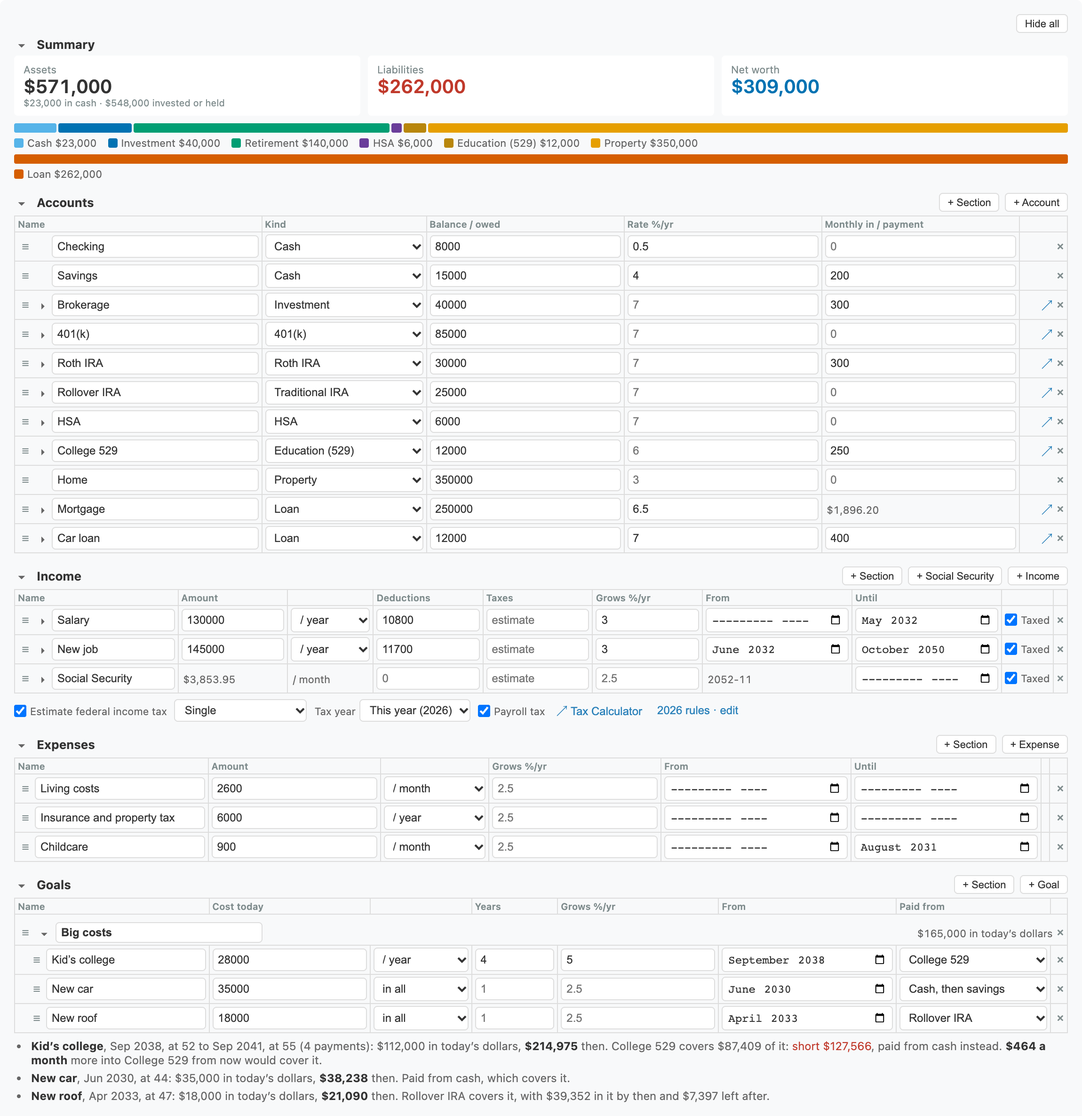
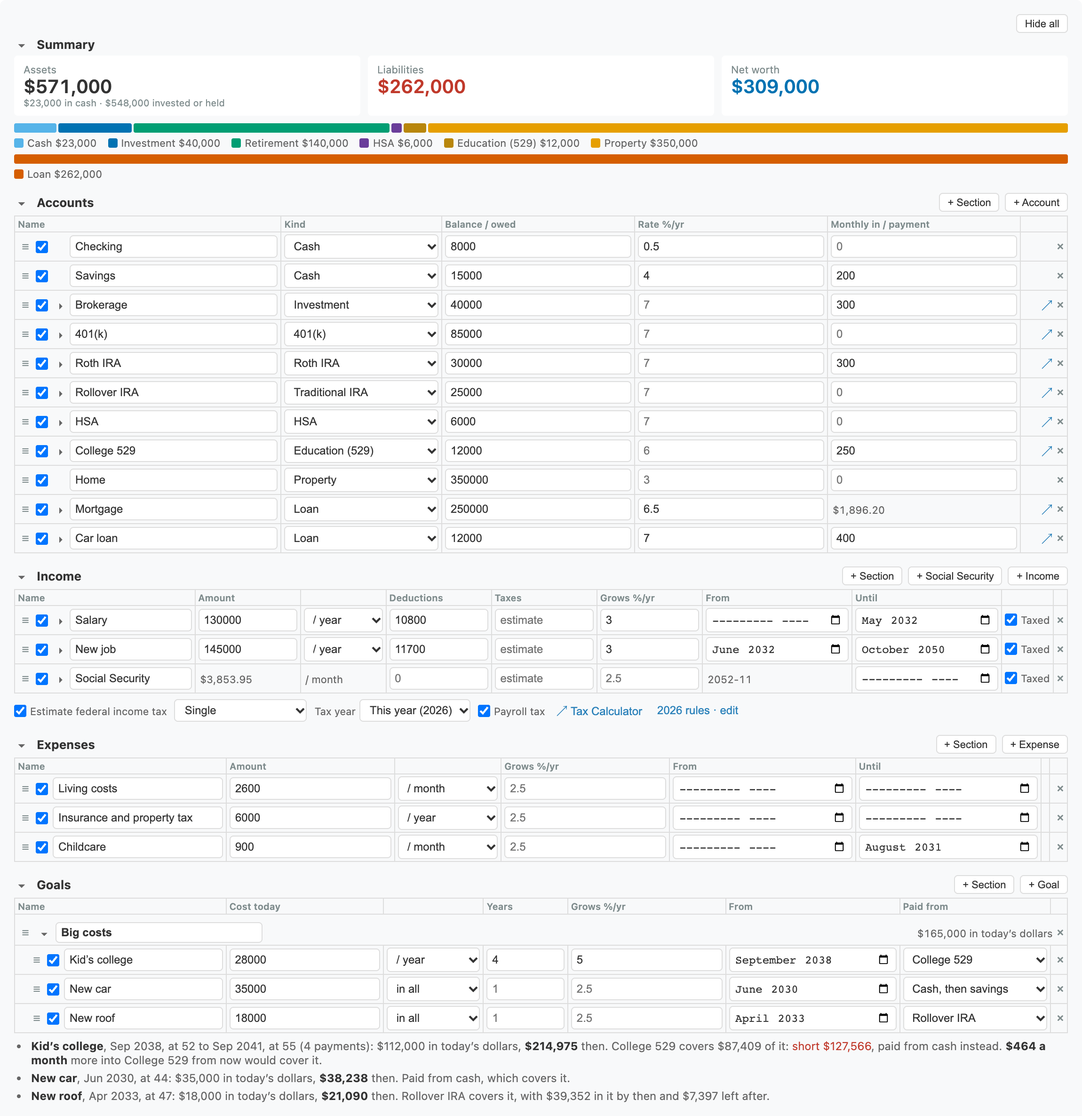
Finance Planning: turn any line off
Every account, income, expense and goal has a tick. Unticked, the line stays in its table,
dimmed and still editable, and the plan comes to what it would with the line deleted.
What points at an account that is off keeps its setting: a goal is paid from cash, what is
left over goes to the first cash account, the withdrawal order keeps its place, and pay
into it stays in take-home. Sections count what is off, and the summary and the on-device
model name it.

diff --git a/plugins/toolboxes/finance-tools.js b/plugins/toolboxes/finance-tools.js
@@ -119,6 +119,9 @@
 .fp-grip { flex: 0 0 16px; width: 16px; border: none; background: none; padding: 0; cursor: grab; color: var(--text-muted); font-size: 11px; }
 .fp-grip:focus-visible { outline: 2px solid #3498db; border-radius: 2px; }
 tr.fp-movable.fp-dragging { opacity: 0.4; }
+.calc-widget.fp-widget input.fp-on { flex: 0 0 13px; width: 13px; height: 13px; margin: 0 3px 0 1px; padding: 0; cursor: pointer; }
+tr.fp-line-off td { opacity: 0.55; }
+tr.fp-line-off input[data-f="name"] { text-decoration: line-through; }
 tr.fp-under-folded { display: none; }
 tr.fp-sec-row td { padding-top: 8px; border-bottom: 1px solid var(--border-color); }
 .fp-sec-head { display: flex; align-items: center; gap: 4px; }
@@ -1570,8 +1573,8 @@ function fpGet(toolId) {
     if (saved.advice) plan.advice = Object.assign(plan.advice, saved.advice);
     if (Array.isArray(saved.drawOrder)) plan.drawOrder = saved.drawOrder.filter(x => x && typeof x.id === 'string').map(x => ({ id: x.id }));
     // Every account that can be drawn from, in the order given and then the usual one —
-    // so moving one is moving it in the whole list.
-    plan.drawOrder = fpDrawOrder(plan).map(a => ({ id: a.id }));
+    // so moving one is moving it in the whole list. One turned off keeps its place.
+    plan.drawOrder = fpDrawOrder(plan, true).map(a => ({ id: a.id }));
     if (saved.assume) {
         const r = Object.assign({}, plan.assume.returns, saved.assume.returns || {});
         plan.assume = Object.assign(plan.assume, saved.assume, { returns: r });
@@ -1716,8 +1719,13 @@ function fpBirthYear(plan) {
 
 /** The household's birth month, { y, m } (m from 0) — Retirement's, or the first Social
  *  Security line's — or null. Every age the plan shows is counted from it. */
+function fpBirthLine(plan) {
+    const has = (l) => l.type === 'ss' && l.birth;
+    return fpEntries((plan && plan.incomes) || []).find(has) || fpAllEntries((plan && plan.incomes) || []).find(has);
+}
+
 function fpBirthOf(plan) {
-    const ss = fpEntries((plan && plan.incomes) || []).find(l => l.type === 'ss' && l.birth);
+    const ss = fpBirthLine(plan);
     const m = /^(\d{4})-(\d{2})$/.exec(((plan && plan.retire) || {}).birth || (ss ? ss.birth : '') || '');
     return m ? { y: +m[1], m: +m[2] - 1 } : null;
 }
@@ -1937,7 +1945,7 @@ function fpSSEstimate(plan, line, stopDate) {
     const payNow = (running.length ? running : pay).reduce((s, l) => s + fpMonthly(l), 0) * 12;
     const past = pastTyped === null ? payNow : pastTyped;
     const from = Math.round(fpNum(line.workFrom, 22));
-    const r = plan.retire && plan.retire.on && fpBirthOf(plan) ? fpRetireInfo(Object.assign({}, plan, { incomes: incomes, accounts: fpEntries(plan.accounts || []), expenses: [] })) : null;
+    const r = plan.retire && plan.retire.on && fpBirthOf(plan) ? fpRetireInfo(Object.assign({}, plan, { incomes: fpAllEntries(plan.incomes), accounts: fpEntries(plan.accounts || []), expenses: [] })) : null;
     const retDate = r && !r.missing ? r.date : null;
     const years = [];
     for (let Y = by + from; Y <= by + 70; Y++) {
@@ -2006,12 +2014,32 @@ function fpAgeText(months) {
 
 function fpIsSection(x) { return !!x && x.type === 'section'; }
 
-function fpEntries(list) { return (list || []).filter(x => x && !fpIsSection(x)); }
+function fpEntries(list) { return (list || []).filter(x => x && !fpIsSection(x) && !x.off); }
+/** The same with the lines turned off: what the tables show, not what the plan counts. */
+function fpAllEntries(list) { return (list || []).filter(x => x && !fpIsSection(x)); }
 
 /** The plan with only its entries, for the sums. */
 function fpCalc(plan) {
     if (!plan || plan._calc) return plan;
-    return Object.assign({}, plan, { accounts: fpEntries(plan.accounts), incomes: fpEntries(plan.incomes), expenses: fpEntries(plan.expenses), goals: fpEntries(plan.goals || []), _calc: true });
+    // A Social Security line turned off still says when you were born.
+    const ss = fpBirthLine(plan);
+    const retire = ss && ss.off && plan.retire && !plan.retire.birth ? Object.assign({}, plan.retire, { birth: ss.birth }) : plan.retire;
+    return Object.assign({}, plan, { accounts: fpEntries(plan.accounts), incomes: fpEntries(plan.incomes).map(l => fpLiveLine(plan, l)), expenses: fpEntries(plan.expenses), goals: fpEntries(plan.goals || []), retire: retire, _calc: true });
+}
+
+/** A pay line as it counts: what it sends to an account turned off stays in take-home, so
+ *  it comes off the deductions too. The line as saved keeps it, for the account coming back. */
+function fpLiveLine(plan, line) {
+    const off = fpAllEntries(plan.accounts).filter(a => a.off).map(a => a.id);
+    const rows = line.type === 'ss' ? [] : fpIntoRows(line);
+    const gone = rows.filter(r => off.includes(r.account));
+    if (!gone.length) return line;
+    return Object.assign({}, line, { deductions: Math.max(0, fpNum(line.deductions, 0) - gone.reduce((s, r) => s + Math.max(0, fpNum(r.amount, 0)), 0)), into: rows.filter(r => !gone.includes(r)) });
+}
+
+/** The lines turned off, by name, for what is read away from the tables. */
+function fpOffNames(plan) {
+    return ['accounts', 'incomes', 'expenses', 'goals'].reduce((out, k) => out.concat(fpAllEntries(plan[k]).filter(x => x.off).map(x => x.name || 'Unnamed')), []);
 }
 
 /** Each section of a list with its entries, in order; the unsectioned first, under null. */
@@ -2028,6 +2056,7 @@ function fpSectionsOf(list) {
  *  what goes in and is paid a month. Income and expenses: a month and a year, of the
  *  lines running now. */
 function fpSectionTotal(plan, list, entries) {
+    entries = entries.filter(x => !x.off).map(x => list === 'incomes' ? fpLiveLine(plan, x) : x);
     if (list === 'accounts') {
         let held = 0, owed = 0, inn = 0, paid = 0;
         const fromPay = fpPayrollNow(plan);
@@ -2258,7 +2287,7 @@ function fpLastJob(plan) {
 function fpRetireInfo(plan) {
     const r = plan.retire || {};
     if (!r.on) return null;
-    const ss = fpEntries(plan.incomes).find(l => l.type === 'ss' && l.birth);
+    const ss = fpBirthLine(plan);
     const birth = r.birth || (ss ? ss.birth : '');
     const m = /^(\d{4})-(\d{2})$/.exec(birth || '');
     if (!m) return { missing: 'birth' };
@@ -2364,9 +2393,9 @@ function fpGoalSaving(plan) {
 /** The accounts drawn from, in order: as the person put them, then any not placed, cash
  *  first, then investments, then pre-tax, then Roth. Property is not drawn from, and nor
  *  is a 529: it is spent only on the goals paid from it. */
-function fpDrawOrder(plan) {
+function fpDrawOrder(plan, withOff) {
     const rank = (a) => a.kind === 'cash' ? 0 : a.kind === 'investment' ? 1 : a.kind === 'other' ? 2 : a.kind === 'hsa' ? 5 : fpIsPretax(a) ? 3 : 4;
-    const drawable = fpEntries(plan.accounts).filter(a => (FP_KINDS[a.kind] || FP_KINDS.other).side === 'asset' && a.kind !== 'property' && a.kind !== 'education');
+    const drawable = (withOff ? fpAllEntries : fpEntries)(plan.accounts).filter(a => (FP_KINDS[a.kind] || FP_KINDS.other).side === 'asset' && a.kind !== 'property' && a.kind !== 'education');
     const placed = (plan.drawOrder || []).map(x => drawable.find(a => a.id === x.id)).filter(Boolean);
     const rest = drawable.filter(a => !placed.includes(a)).sort((a, b) => rank(a) - rank(b));
     return placed.concat(rest);
@@ -3226,7 +3255,7 @@ function fpResetDrawOrder(btn) {
     const widget = fpWidget(btn), toolId = fpToolId(btn);
     const plan = fpGet(toolId);
     plan.drawOrder = [];
-    plan.drawOrder = fpDrawOrder(plan).map(a => ({ id: a.id }));
+    plan.drawOrder = fpDrawOrder(plan, true).map(a => ({ id: a.id }));
     fpSet(toolId, plan);
     fpRender(widget);
 }
@@ -3304,9 +3333,9 @@ function fpRender(widget) {
         const liability = kind.side === 'liability';
         const detailed = kind.tool === 'loan-calculator' || kind.tool === 'dynamic-investment-calculator';
         const open = detailed && widget._open.has(a.id);
-        const main = '<tr data-id="' + attr(a.id) + '" data-list="accounts" class="fp-acc fp-movable' + (open ? ' fp-open' : '') + (under[a.id] ? ' fp-under-folded' : '') + '"' +
+        const main = '<tr data-id="' + attr(a.id) + '" data-list="accounts" class="fp-acc fp-movable' + (a.off ? ' fp-line-off' : '') + (open ? ' fp-open' : '') + (under[a.id] ? ' fp-under-folded' : '') + '"' +
                 ' ondragover="fpDragOver(event, this)" ondragleave="fpDragLeave(this)" ondrop="fpDrop(event, this)">' +
-            '<td><div class="fp-name-cell">' + fpGrip(a.name || kind.label) + (detailed ? '<button type="button" class="fp-more" onclick="fpToggleDetails(this)" aria-expanded="' + open + '" title="' +
+            '<td><div class="fp-name-cell">' + fpGrip(a.name || kind.label) + fpOnBox(a, kind.label) + (detailed ? '<button type="button" class="fp-more" onclick="fpToggleDetails(this)" aria-expanded="' + open + '" title="' +
                 (open ? 'Hide' : 'Show') + ' everything the ' + escapeHtml((PluginRegistry.getTool(kind.tool) || {}).name || 'calculator') + ' takes">' + (open ? '▾' : '▸') + '</button>' : '<span class="fp-more-gap"></span>') +
                 '<input class="fp-in fp-name" data-f="name" value="' + attr(a.name) + '" placeholder="Name" aria-label="Account name"></div></td>' +
             '<td><select class="fp-in" data-f="kind" aria-label="Kind">' + kindOptions(a) + '</select></td>' +
@@ -3318,8 +3347,8 @@ function fpRender(widget) {
         return main + (open && !under[a.id] ? fpDetailsRow(plan, a) : '');
     }).join('');
     const flowRows = (list, isIncome) => plan[list].map(l => fpIsSection(l) ? secRow(l, list, isIncome ? 10 : 8) :
-        '<tr data-id="' + attr(l.id) + '" data-list="' + list + '" class="fp-movable' + (under[l.id] ? ' fp-under-folded' : '') + '" ondragover="fpDragOver(event, this)" ondragleave="fpDragLeave(this)" ondrop="fpDrop(event, this)">' +
-            '<td><div class="fp-name-cell">' + fpGrip(l.name || (isIncome ? 'income' : 'expense')) +
+        '<tr data-id="' + attr(l.id) + '" data-list="' + list + '" class="fp-movable' + (l.off ? ' fp-line-off' : '') + (under[l.id] ? ' fp-under-folded' : '') + '" ondragover="fpDragOver(event, this)" ondragleave="fpDragLeave(this)" ondrop="fpDrop(event, this)">' +
+            '<td><div class="fp-name-cell">' + fpGrip(l.name || (isIncome ? 'income' : 'expense')) + fpOnBox(l, isIncome ? 'income' : 'expense') +
                 (isIncome ? '<button type="button" class="fp-more" onclick="fpToggleDetails(this)" aria-expanded="' + widget._open.has(l.id) + '" title="' +
                     (widget._open.has(l.id) ? 'Hide' : 'Show') + (l.type === 'ss' ? ' the benefit and when it is claimed' : ' what goes from it into an account') + '">' + (widget._open.has(l.id) ? '▾' : '▸') + '</button>' : '') +
                 '<input class="fp-in" data-f="name" value="' + attr(l.name) + '" placeholder="Name" aria-label="Name"></div></td>' +
@@ -3339,17 +3368,17 @@ function fpRender(widget) {
             (isIncome ? '<td><label class="fp-check" title="Counted in the federal estimate, unless its taxes are typed"><input class="fp-in" type="checkbox" data-f="taxed"' + (l.taxed !== false ? ' checked' : '') + '> Taxed</label></td>' : '<td></td>') +
             '<td class="fp-acts"><button type="button" class="fp-x" onclick="fpRemove(this)" title="Remove">×</button></td></tr>' +
         (isIncome && widget._open.has(l.id) && !under[l.id] ? fpIncomeDetailsRow(plan, l) : '')).join('');
-    const payFrom = fpEntries(plan.accounts).filter(fpCanPayGoal);
+    const payFrom = fpAllEntries(plan.accounts).filter(fpCanPayGoal);
     const goalRows = plan.goals.map(g => fpIsSection(g) ? secRow(g, 'goals', 8) :
-        '<tr data-id="' + attr(g.id) + '" data-list="goals" class="fp-movable fp-goal' + (under[g.id] ? ' fp-under-folded' : '') + '" ondragover="fpDragOver(event, this)" ondragleave="fpDragLeave(this)" ondrop="fpDrop(event, this)">' +
-            '<td><div class="fp-name-cell">' + fpGrip(g.name || 'goal') + '<input class="fp-in" data-f="name" value="' + attr(g.name) + '" placeholder="Name" aria-label="Name"></div></td>' +
+        '<tr data-id="' + attr(g.id) + '" data-list="goals" class="fp-movable fp-goal' + (g.off ? ' fp-line-off' : '') + (under[g.id] ? ' fp-under-folded' : '') + '" ondragover="fpDragOver(event, this)" ondragleave="fpDragLeave(this)" ondrop="fpDrop(event, this)">' +
+            '<td><div class="fp-name-cell">' + fpGrip(g.name || 'goal') + fpOnBox(g, 'goal') + '<input class="fp-in" data-f="name" value="' + attr(g.name) + '" placeholder="Name" aria-label="Name"></div></td>' +
             '<td><input class="fp-in fp-num" type="number" data-f="cost" value="' + attr(g.cost) + '" placeholder="0" aria-label="Cost, in today’s dollars" title="In today’s dollars: it rises by its growth to when it is paid"></td>' +
             '<td><select class="fp-in" data-f="every" aria-label="A year or in all"><option value="total"' + (g.every !== 'year' ? ' selected' : '') + '>in all</option><option value="year"' + (g.every === 'year' ? ' selected' : '') + '>/ year</option></select></td>' +
             '<td><input class="fp-in fp-num fp-small" type="number" min="1" max="20" step="1" data-f="years" value="' + attr(g.years) + '" placeholder="1" aria-label="Over how many years" title="Paid at the start of each year: 4 for college, 1 for a one-off"></td>' +
             '<td><input class="fp-in fp-num" type="number" step="0.1" data-f="growth" value="' + attr(g.growth) + '" placeholder="' + fpNum(plan.assume.inflation, 0) + '" aria-label="Its cost grows per cent a year" title="Its price rises this much a year; empty means inflation. College costs have tended to rise faster, about 5% a year."></td>' +
             '<td><input class="fp-in fp-date" type="month" data-f="from" value="' + attr(g.from) + '" aria-label="When the first payment falls" title="When the first payment falls"></td>' +
             '<td><select class="fp-in" data-f="account" aria-label="Paid from"><option value="">Cash, then savings</option>' +
-                payFrom.map(a => '<option value="' + attr(a.id) + '"' + (g.account === a.id ? ' selected' : '') + '>' + escapeHtml(a.name || fpKindLabel(a)) + '</option>').join('') + '</select></td>' +
+                payFrom.map(a => '<option value="' + attr(a.id) + '"' + (g.account === a.id ? ' selected' : '') + '>' + escapeHtml(a.name || fpKindLabel(a)) + (a.off ? ' (off)' : '') + '</option>').join('') + '</select></td>' +
             '<td class="fp-acts"><button type="button" class="fp-x" onclick="fpRemove(this)" title="Remove">×</button></td></tr>').join('');
     const goalHead = '<thead><tr><th>Name</th><th>Cost today</th><th></th><th>Years</th><th>Grows %/yr</th><th>From</th><th>Paid from</th><th></th></tr></thead>';
     const flowHead = '<thead><tr><th>Name</th><th>Amount</th><th></th><th>Grows %/yr</th><th>From</th><th>Until</th><th></th><th></th></tr></thead>';
@@ -3547,7 +3576,8 @@ function fpRefreshSections(widget, plan) {
     ['accounts', 'incomes', 'expenses', 'goals'].forEach(list => fpSectionsOf(plan[list]).forEach(g => {
         if (!g.section) return;
         const el = widget.querySelector('tr.fp-sec-row[data-list="' + list + '"][data-id="' + CSS.escape(g.section.id) + '"] .fp-sec-total');
-        if (el) el.textContent = fpSectionTotal(plan, list, g.entries).text;
+        const off = g.entries.filter(x => x.off).length;
+        if (el) el.textContent = off === g.entries.length && off ? off + ' off' : fpSectionTotal(plan, list, g.entries).text + (off ? ' · ' + off + ' off' : '');
     }));
 }
 
@@ -3575,12 +3605,12 @@ function fpIncomeDetailsRow(plan, l) {
             '</div><div class="fp-detail-fields fp-ss-est">' + fpSSEstimateFields(plan, l) + '</div><div class="fp-detail-sum"></div></td></tr>';
     }
     const per = l.every === 'year' ? '/ year' : '/ month';
-    const targets = fpEntries(plan.accounts).filter(a => (FP_KINDS[a.kind] || FP_KINDS.other).side === 'asset');
+    const targets = fpAllEntries(plan.accounts).filter(a => (FP_KINDS[a.kind] || FP_KINDS.other).side === 'asset');
     const rows = fpIntoRows(l);
     const row = (r, i) => '<div class="fp-into-row" data-row="' + attr(r.id) + '">' +
         '<label>' + (i ? 'and' : 'Of the deductions,') + ' <input class="fp-in fp-num" type="number" data-f="into.amount" data-row="' + attr(r.id) + '" value="' + attr(r.amount) + '" placeholder="0" aria-label="Your part"> ' + per + ' goes into</label>' +
         '<select class="fp-in" data-f="into.account" data-row="' + attr(r.id) + '" aria-label="Into which account"><option value="">— no account —</option>' +
-            targets.map(a => '<option value="' + attr(a.id) + '"' + (a.id === r.account ? ' selected' : '') + '>' + escapeHtml(a.name || fpKindLabel(a)) + (a.kind === 'retirement' && a.name !== fpKindLabel(a) ? ' (' + fpKindLabel(a) + ')' : '') + '</option>').join('') + '</select>' +
+            targets.map(a => '<option value="' + attr(a.id) + '"' + (a.id === r.account ? ' selected' : '') + '>' + escapeHtml(a.name || fpKindLabel(a)) + (a.kind === 'retirement' && a.name !== fpKindLabel(a) ? ' (' + fpKindLabel(a) + ')' : '') + (a.off ? ' (off)' : '') + '</option>').join('') + '</select>' +
         '<label>employer adds <input class="fp-in fp-num" type="number" data-f="into.match" data-row="' + attr(r.id) + '" value="' + attr(r.match) + '" placeholder="0" aria-label="Employer’s part"> ' + per + '</label>' +
         '<button type="button" class="fp-x" onclick="fpRemoveInto(this)" title="Remove this account">×</button></div>';
     return '<tr class="fp-detail fp-income-detail" data-id="' + attr(l.id) + '" data-list="incomes"><td colspan="10"><div class="fp-detail-fields fp-into">' +
@@ -3601,10 +3631,10 @@ function fpIncomeDetailsRow(plan, l) {
 function fpSSEstimateFields(plan, l) {
     const attr = (v) => escapeHtml(v === null || v === undefined ? '' : String(v));
     const counted = fpSSPayOf(plan, l).map(x => x.id);
-    const pay = fpEntries(plan.incomes).filter(x => x.type !== 'ss');
+    const pay = fpAllEntries(plan.incomes).filter(x => x.type !== 'ss');
     return '<span class="fp-note">With the benefit left empty, it is estimated from pay:</span>' +
         (pay.length ? '<span class="fp-ss-pay">Pay that counts ' + pay.map(x => '<label class="fp-check"><input class="fp-in" type="checkbox" data-f="payFrom" value="' + attr(x.id) + '"' +
-            (counted.includes(x.id) ? ' checked' : '') + '> ' + escapeHtml(x.name || 'Income') + '</label>').join('') + '</span>' : '<span class="fp-note">no pay in the plan yet.</span>') +
+            (counted.includes(x.id) || (Array.isArray(l.payFrom) && l.payFrom.includes(x.id)) ? ' checked' : '') + '> ' + escapeHtml(x.name || 'Income') + (x.off ? ' (off)' : '') + '</label>').join('') + '</span>' : '<span class="fp-note">no pay in the plan yet.</span>') +
         '<label>Started work at age <input class="fp-in fp-num fp-small" type="number" min="14" max="70" data-f="workFrom" value="' + attr(l.workFrom) + '" placeholder="22"></label>' +
         '<label title="What was earned a year before now, on average, in today’s dollars. Empty: as now.">Past pay <input class="fp-in fp-num" type="number" data-f="pastPay" value="' + attr(l.pastPay) + '" placeholder="' +
             Math.round(fpSSPayOf(plan, l).reduce((s, x) => s + fpMonthly(x), 0) * 12) + '"> / year</label>';
@@ -3638,6 +3668,8 @@ function fpIncomeDetailSummary(plan, l) {
     let own = 0;
     rows.forEach(r => {
         own += r.account ? r.own : 0;
+        const off = !r.account && fpAllEntries(plan.accounts).find(a => a.id === r.accountId && a.off);
+        if (off) { bits.push('<span class="fp-note">' + named(off) + ' is off: ' + fpMoney(r.own) + ' a month stays in take-home.</span>'); return; }
         if (!r.account) { if (r.own || r.match) bits.push('<span class="fp-neg">Choose an account for ' + fpMoney(r.own + r.match) + ' a month to go into; until then it is spent like the other deductions.</span>'); return; }
         const a = r.account;
         bits.push('<span>Into ' + named(a) + ': <b>' + fpMoney(r.own + r.match) + '</b> a month' + (r.match ? ' (' + fpMoney(r.own) + ' yours, ' + fpMoney(r.match) + ' employer)' : '') +
@@ -3802,6 +3834,8 @@ function fpGoalText(plan, proj, g, save, html) {
     let text = name + ', ' + when + ': ' + fpMoney(o.today) + ' in today’s dollars, ' + b(fpMoney(o.due)) + ' then.';
     const acct = fpGoalAccount(plan, g);
     const acctName = acct ? (html ? escapeHtml(acct.name || fpKindLabel(acct)) : (acct.name || fpKindLabel(acct))) : '';
+    const offAcct = !acct && g.account ? fpAllEntries(plan.accounts).find(a => a.id === g.account && a.off) : null;
+    if (offAcct) { const n = offAcct.name || fpKindLabel(offAcct); text += ' ' + (html ? escapeHtml(n) : n) + ' is off.'; }
     if (o.own) {
         const short = o.due - o.fromOwn;
         if (short < 1) text += ' ' + acctName + ' covers it, with ' + fpMoney(o.held) + ' in it by then' + (o.left > 1 ? ' and ' + fpMoney(o.left) + ' left after' : '') + '.';
@@ -3866,7 +3900,7 @@ function fpRenderDerived(widget, plan) {
             '<span class="' + (f.surplus < 0 ? 'fp-neg' : 'fp-pos') + '">= ' + (f.surplus < 0 ? 'short ' : 'left over ') + '<b>' + fpMoney(Math.abs(f.surplus)) + '</b></span>' +
         '</div>' +
         '<div class="fp-into">' + (f.surplus < 0 ? 'Taken from' : 'Goes to') + ' <select class="fp-in" data-a="surplusTo" aria-label="Where what is left over goes">' +
-            '<option value="">' + (into && !plan.surplusTo ? 'First cash account (' + escapeHtml(into.name || 'Cash') + ')' : 'First cash account') + '</option>' +
+            '<option value="">' + (into && !surplusTargets.some(a => a.id === plan.surplusTo) ? 'First cash account (' + escapeHtml(into.name || 'Cash') + ')' : 'First cash account') + '</option>' +
             surplusTargets.map(a => '<option value="' + escapeHtml(a.id) + '"' + (plan.surplusTo === a.id ? ' selected' : '') + '>' + escapeHtml(a.name || FP_KINDS[a.kind].label) + '</option>').join('') +
         '</select>' + (!proj.into ? ' <span class="fp-note">No cash account yet: it is counted on its own.</span>' : '') + '</div>';
     if (f.payrollOwn || f.payrollMatch) {
@@ -4385,6 +4419,25 @@ function fpGrip(name) {
         ' onkeydown="fpGripKey(event, this)" aria-label="Move ' + escapeHtml(String(name)) + ': ↑ or ↓" title="Drag to move, or ↑ and ↓">☰</button>';
 }
 
+/** A line's box: unticked, the plan goes on as if the line were not there, and it stays
+ *  where it is, as it was, for when it is ticked again. */
+function fpOnBox(x, label) {
+    return '<input type="checkbox" class="fp-on"' + (x.off ? '' : ' checked') + ' onchange="fpToggleLine(this)" aria-label="Count ' + escapeHtml(x.name || label) + ' in the plan" title="Untick to leave this line out of the plan, without removing it">';
+}
+
+function fpToggleLine(box) {
+    const widget = fpWidget(box), toolId = fpToolId(box), tr = box.closest('tr');
+    const list = tr.dataset.list, id = tr.dataset.id;
+    const plan = fpGet(toolId);
+    const item = plan[list].find(x => x.id === id);
+    if (!item) return;
+    if (box.checked) delete item.off; else item.off = true;
+    fpSet(toolId, plan);
+    fpRender(widget);
+    const again = widget.querySelector('tr[data-list="' + list + '"][data-id="' + CSS.escape(id) + '"] .fp-on');
+    if (again) again.focus();
+}
+
 function fpMoveItem(widget, list, id, to) {
     const toolId = fpToolId(widget);
     const plan = fpGet(toolId);
@@ -4443,8 +4496,11 @@ function fpGripKey(e, btn) {
         if (e.key === 'ArrowUp' && k > 0) fpMoveSection(widget, list, id, ids[k - 1]);
         else if (e.key === 'ArrowDown' && k < ids.length - 1) fpMoveSection(widget, list, id, ids[k + 2] || null);
     } else {
-        const at = items.findIndex(a => a.id === id);
-        fpMoveItem(widget, list, id, at + (e.key === 'ArrowUp' ? -1 : 1));
+        const step = e.key === 'ArrowUp' ? -1 : 1;
+        let to = items.findIndex(a => a.id === id) + step;
+        // The withdrawal order holds accounts turned off, out of sight: a step goes past them.
+        while (list === 'drawOrder' && items[to] && !widget.querySelector('tr[data-list="drawOrder"][data-id="' + CSS.escape(items[to].id) + '"]')) to += step;
+        fpMoveItem(widget, list, id, to);
     }
     const again = widget.querySelector('tr.fp-movable[data-list="' + list + '"][data-id="' + CSS.escape(id) + '"] .fp-grip');
     if (again) again.focus();
@@ -4925,6 +4981,7 @@ function fpSummaryText(plan) {
         if (g.section) named.push('- ' + title + ' — ' + (g.section.name || 'Untitled section') + ': ' + fpSectionTotal(plan, list, g.entries).text);
     }));
     if (named.length) out.push('', '### Sections', '', ...named);
+    if (fpOffNames(plan).length) out.push('', 'Left out for now: ' + fpOffNames(plan).join(', ') + '.');
     const f = proj.first;
     out.push('', '### A month, now', '', 'Income ' + fpMoney(f.income) + (f.deductions ? ', deductions ' + fpMoney(f.deductions) : '') +
         (plan.tax.on || f.tax ? ', taxes ' + fpMoney(f.tax) + (f.payrollTax ? ' (' + fpMoney(f.payrollTax) + ' of it payroll tax)' : '') : '') + ', take-home ' + fpMoney(f.takeHome) +
@@ -5032,6 +5089,7 @@ function fpAITarget(toolId) {
     const accSec = sectionOf('accounts'), incSec = sectionOf('incomes'), expSec = sectionOf('expenses');
     const inSec = (map, x) => map[x.id] ? ' [section: ' + map[x.id] + ']' : '';
     lines.push('Finance plan as of ' + new Date().toLocaleDateString(undefined, { year: 'numeric', month: 'short', day: 'numeric' }) + '. Amounts in dollars.');
+    if (fpOffNames(plan).length) lines.push('Left out for now, and not in anything below: ' + fpOffNames(plan).map(n => fpAIName({ name: n }, 'Unnamed')).join(', ') + '.');
     lines.push('', 'Accounts:');
     if (!calc.accounts.length) lines.push('- none');
     calc.accounts.forEach(a => {
@@ -5197,7 +5255,7 @@ function fpAIFinish(result) {
 (function injectScriptsForExport() {
     if (document.getElementById('finance-tools-scripts')) return;
 
-    const functionsToExport = [fpRetireByJob, fpLastJob, fpRetireLines, fpRetireFields, fpRenderRetire, fpTaxInfo, fpSSTaxable, fpFederalTax, fpPayrollTax, fpPretaxPay, fpBasisOf, fpBirthYear, fpBirthOf, fpAgeAt, fpWhen, fpMonthAt, fpRefreshAgeHints, fpLimitCheck, fpLimitText, fpTaxWith, fpRmdAge, fpRmdFactor, fpRetKey, fpKindLabel, fpIsPretax, fpRetireInfo, fpRetireSpending, fpDrawOrder, fpRetireMax, fpHealthOf, fpPayGap, fpAdviceFields, fpMarginal, fpAdviceSteps, fpAdviceSplit, fpAdviceMix, fpAdviceHtml, fpUseMixReturn, fpResetDrawOrder, fpLimitGroup, fpGroupLimit, fpGroupOwn, fpMatchOf, fpNeededToStop, fpNeededFor, fpNeededText, fpAIEsc, fpAIName, fpAIFacts, fpAITarget, fpAICleanDraft, fpAIDraftPreview, fpAICleanSections, fpAISectionsPreview, fpAIApply, fpAIFinish, fpFullRetirementMonths, fpClaimFactor, fpSSEstimate, fpSSPayOf, fpWithEstimates, fpSSEstimateFields, fpSSInfo, fpAgeText, fpAddSocialSecurity, fpPayrollTarget, fpIntoRows, fpIntoOf, fpAddInto, fpRemoveInto, fpSetInto, fpPayrollNow, fpPayrollMonthlyOf, fpIncomeDetailsRow, fpIncomeDetailSummary, fpRefreshIncomeDetails, fpEscrowOf, fpPerMonth, fpHasTypedTax, fpIsSection, fpEntries, fpCalc, fpSectionsOf, fpSectionTotal, fpRefreshSections, fpAddSection, fpSectionFold, fpOpenAround, fpMoveSection, fpSectionIds, fpGrip, fpMoveItem, fpGripKey, fpDragStart, fpDragOver, fpDragLeave, fpDrop, fpDragEnd, fpFoldedOf, fpSaveFolded, fpChartSpan, fpChartRange, fpFold, fpFoldAll, fpShowFolded, fpCents, fpClosing, fpLoanTerms, fpBalanceOf, fpMonthlyOf, fpDetailsRow, fpRefreshAccounts, fpDetailSummary, fpToggleDetails, fpTaxYearOptions, fpDefaultPlan, fpNum, fpNewId, fpToolId, fpGet, fpSet, fpRateOf, fpMonthly, fpActive, fpSurplusAccount, fpIncomeTax, fpYm, fpProject, fpRollup, fpMoney, fpMonthText, fpInit, fpRender, fpRenderDerived, fpChart, fpWidget, fpOnInput, fpAdd, fpRemove, fpSample, fpApplyHashParams, fpOpenAccountTool, fpOpenTax, fpSummaryText, fpCopySummary,
+    const functionsToExport = [fpToggleLine, fpOffNames, fpLiveLine, fpRetireByJob, fpLastJob, fpRetireLines, fpRetireFields, fpRenderRetire, fpTaxInfo, fpSSTaxable, fpFederalTax, fpPayrollTax, fpPretaxPay, fpBasisOf, fpBirthYear, fpBirthOf, fpAgeAt, fpWhen, fpMonthAt, fpRefreshAgeHints, fpLimitCheck, fpLimitText, fpTaxWith, fpRmdAge, fpRmdFactor, fpRetKey, fpKindLabel, fpIsPretax, fpRetireInfo, fpRetireSpending, fpDrawOrder, fpRetireMax, fpHealthOf, fpPayGap, fpAdviceFields, fpMarginal, fpAdviceSteps, fpAdviceSplit, fpAdviceMix, fpAdviceHtml, fpUseMixReturn, fpResetDrawOrder, fpLimitGroup, fpGroupLimit, fpGroupOwn, fpMatchOf, fpNeededToStop, fpNeededFor, fpNeededText, fpAIEsc, fpAIName, fpAIFacts, fpAITarget, fpAICleanDraft, fpAIDraftPreview, fpAICleanSections, fpAISectionsPreview, fpAIApply, fpAIFinish, fpFullRetirementMonths, fpClaimFactor, fpSSEstimate, fpSSPayOf, fpWithEstimates, fpSSEstimateFields, fpSSInfo, fpAgeText, fpAddSocialSecurity, fpPayrollTarget, fpIntoRows, fpIntoOf, fpAddInto, fpRemoveInto, fpSetInto, fpPayrollNow, fpPayrollMonthlyOf, fpIncomeDetailsRow, fpIncomeDetailSummary, fpRefreshIncomeDetails, fpEscrowOf, fpPerMonth, fpHasTypedTax, fpIsSection, fpEntries, fpCalc, fpSectionsOf, fpSectionTotal, fpRefreshSections, fpAddSection, fpSectionFold, fpOpenAround, fpMoveSection, fpSectionIds, fpGrip, fpMoveItem, fpGripKey, fpDragStart, fpDragOver, fpDragLeave, fpDrop, fpDragEnd, fpFoldedOf, fpSaveFolded, fpChartSpan, fpChartRange, fpFold, fpFoldAll, fpShowFolded, fpCents, fpClosing, fpLoanTerms, fpBalanceOf, fpMonthlyOf, fpDetailsRow, fpRefreshAccounts, fpDetailSummary, fpToggleDetails, fpTaxYearOptions, fpDefaultPlan, fpNum, fpNewId, fpToolId, fpGet, fpSet, fpRateOf, fpMonthly, fpActive, fpSurplusAccount, fpIncomeTax, fpYm, fpProject, fpRollup, fpMoney, fpMonthText, fpInit, fpRender, fpRenderDerived, fpChart, fpWidget, fpOnInput, fpAdd, fpRemove, fpSample, fpApplyHashParams, fpOpenAccountTool, fpOpenTax, fpSummaryText, fpCopySummary,
         taxRulesBuiltin, taxMergeShape, taxRuleNum, taxRulesOf, taxRulesFor, fpAgeShort, taxBuiltin, taxClone, taxTableLoad, taxTableSave, taxTableChanged, taxYearsOf, taxDefaultYear, taxProblems, taxBracketsFor,
         tbToolId, tbYearOf, tbMoney, tbInit, tbRender, tbRefreshDerived, tbReadStatus, tbStore, tbOnInput, tbAddBracket, tbRemoveBracket,
         tbSetYear, tbPickYear, tbAddYear, tbDeleteYear, tbResetYear, tbTabOf, tbPickTab, tbShow, tbGetPath, tbSetPath, tbField, tbRows, tbPanel, taxRuleProblems,

diff --git a/learn/tools/finance-planning.html b/learn/tools/finance-planning.html
@@ -224,6 +224,22 @@
     that begins. Loan payments are not expenses here: they come from the loans themselves.
 </p>
 
+<h2 id="off">Turning a line off</h2>
+<p>
+    Every account, income, expense and goal has a tick at the start of its row. Untick it to see
+    the plan without that line — no second car, no childcare, a job gone — and tick it again to
+    bring it back as it was. While it is off the plan goes on as if the line were not there, though
+    it stays in its table, dimmed, and its section says how many are off. Copy summary and the
+    on-device AI name what is left out.
+</p>
+<p>
+    What depends on an account that is off keeps its settings for when it comes back. Meanwhile a
+    goal is paid from cash and then savings, what is left over goes to the first cash account, and
+    the account drops out of the withdrawal order but keeps its place. Pay going into it stays in
+    take-home, and any employer match on it stops. A Social Security line that is off pays
+    nothing, but still gives the birth month if the plan has no other.
+</p>
+
 <h2 id="goals">Goals</h2>
 <p>
     A big cost ahead — a child's college, a car, a wedding, a new roof — is a goal rather than

diff --git a/docs/storage.md b/docs/storage.md
@@ -829,6 +829,9 @@ labels.
             lump: null }                          //   and a sum to place instead of the leftover
 }
 // a retirement account may say tax: 'pretax' (default) or 'roth'
+// any account, income, expense or goal may say off: true — kept and shown, counted nowhere.
+// What points at it stays pointing at it: fpEntries() and fpCalc() leave it out, fpAllEntries()
+// has it, and pay into an account that is off comes off that line's deductions in fpLiveLine().
 ```
 
 Before retirement, a month that leaves cash below nought is made up from savings in the
